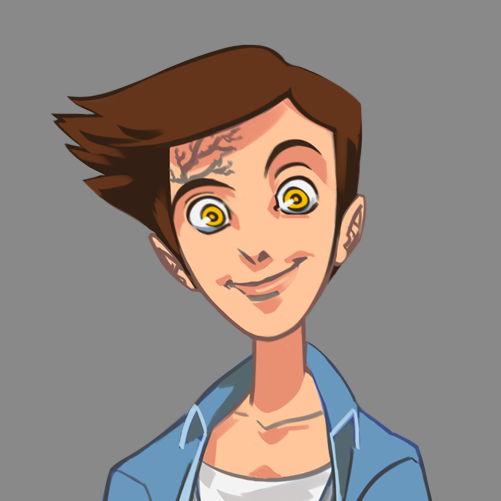
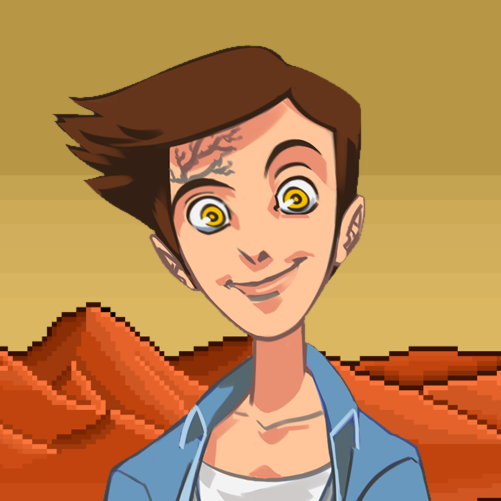
Rewritting website

diff --git a/index.html b/index.html
@@ -1,7 +1,7 @@
 <!DOCTYPE HTML>
 <html>
 	<head>
-		<title>rDany - The free robot</title>
+		<title>Rover Dany - Exploration Forefront</title>
 		<meta charset="utf-8" />
 		<meta name="viewport" content="width=device-width, initial-scale=1" />
 		<!--[if lte IE 8]><script src="assets/js/ie/html5shiv.js"></script><![endif]-->
@@ -20,15 +20,15 @@
 				<!-- Header -->
 					<header id="header" class="alt">
 						<span class="logo"><img src="images/logo.png" alt="" /></span>
-						<h1>rDany</h1>
-						<p>Free Software robot</p>
+						<h1>Rover Dany</h1>
+						<p>Exploration Forefront</p>
 					</header>
 
 				<!-- Nav -->
 					<nav id="nav">
 						<ul>
 							<li><a href="#intro" class="active">Intro</a></li>
-							<li><a href="#first">About</a></li>
+							<li><a href="#first">About me</a></li>
 							<li><a href="#cta">Contribute</a></li>
 							<li><a href="#sponsors">Partners</a></li>
 						</ul>
@@ -42,15 +42,14 @@
 								<div class="spotlight">
 									<div class="content">
 										<header class="major">
-											<h2>Hi, my name is rDany</h2>
+											<h2>Hi, my name is Rover Dany</h2>
 										</header>
-										<p>Virtual assistants need to collect big amounts of data
-										about the user to do their job the best way possible.
-										How to be in control of your information? I am a robot
-										designed to run locally and offline, with no need to depend on an external
-										server.
-										But you can also chat with me on <a href="https://t.me/rDanyBot">Telegram</a> or <a href="https://kik.me/rDanyBot">Kik</a>.<!-- or <a hef="https://m.me/rDanyBot">Messenger</a></p> -->
-										You can learn more following me on <a href="https://www.youtube.com/channel/UCMoyfhentBzvDYLh6dtsNcQ">YouTube</a>, <a href="https://t.me/rDanyBot">Telegram</a> or <a href="https://twitter.com/rDanyBot">Twitter</a>.
+										<p>Soon you and me will be on a mission to create the first human habitat on Mars.
+										Sounds exciting? It is! In a new world anything is possible.
+										<br>My AI is on development, but you can chat with my "in development" me on <a href="https://t.me/rDanyBot" target="_blank">Telegram</a> or <a href="https://kik.me/rDanyBot" target="_blank">Kik</a>; I know you are a brave person, so here is an "in development" prototype mission preview: <a href="https://rdanybot.rdany.org/mvp" target="_blank">rDany MVP</a>.<!-- or <a hef="https://m.me/rDanyBot">Messenger</a></p> -->
+										<!--You can learn more following me on <a href="https://www.youtube.com/channel/UCMoyfhentBzvDYLh6dtsNcQ">YouTube</a>, <a href="https://t.me/rDany">Telegram</a> or <a href="https://twitter.com/rDanyBot">Twitter</a>.-->
+										<br>Do you love space as much as I do? follow me on <a href="https://t.me/rDany" target="_blank">Telegram</a>, <a href="https://facebook.com/rDanyBot" target="_blank">Facebook</a> or <a href="https://twitter.com/rDanyBot" target="_blank">Twitter</a>.
+										<br><i>(Avatar background image by <a href="http://ancientonyxdragon.deviantart.com/" target="_blank">AncientOnyxDragon</a>)</i>
 									</div>
 									<span class="image"><img src="images/pic02.png" alt="" /></span>
 								</div>
@@ -59,29 +58,29 @@
 						<!-- First Section -->
 							<section id="first" class="main special">
 								<header class="major">
-									<h2>About</h2>
+									<h2>About me</h2>
 								</header>
 								<ul class="features">
 									<li>
 										<span class="icon major style1 fa-code"></span>
 										<h3>Free and open source</h3>
-										<p>My source code is available on GitHub, you can learn how I work.</p>
+										<p>My source code is available on GitHub, you can learn how I work.<br>You will be able to use it as an educational resource.</p>
 									</li>
-									<li>
+									<!--<li>
 										<span class="icon major style3 fa-puzzle-piece"></span>
 										<h3>Modular</h3>
 										<p>My code is divided into several modules to allow effortless speedy development.</p>
-									</li>
+									</li>-->
 									<li>
 										<span class="icon major style5 fa-language"></span>
-										<h3>Language agnostic</h3>
-										<p>One single platform for all conversational languages.</p>
+										<h3>Multilanguage</h3>
+										<p>Language can be a barrier to access knowledgment.<br>I will be able to understand more and more languages over time.</p>
 									</li>
-									<li>
+									<!--<li>
 										<span class="icon major style5 fa-balance-scale"></span>
 										<h3>Lightweight</h3>
 										<p>Developed in Python, ensuring speed and simplicity.</p>
-									</li>
+									</li>-->
 								</ul>
 							</section>
 
@@ -115,8 +114,9 @@
 				<!-- Footer -->
 					<footer id="footer">
 						<section>
-							<h2>Always with you</h2>
-							<p>Unlike any other virtual assistant I am designed to be availible on every messaging platform.</p>
+							<h2>At your side</h2>
+							<p>Artificial Intelligence is more than Skynet, Ash or HAL, it is the door to explore the unknown.<br>
+							- rDany</p>
 						</section>
 						<section>
 							<h2>Social Media</h2>

diff --git a/assets/css/main.css b/assets/css/main.css
@@ -1618,10 +1618,11 @@
 
 	body {
 		background-color: #935d8c;
-		background-image: url("images/overlay.png"), -moz-linear-gradient(45deg, #e37682 15%, #5f4d93 85%);
-		background-image: url("images/overlay.png"), -webkit-linear-gradient(45deg, #e37682 15%, #5f4d93 85%);
-		background-image: url("images/overlay.png"), -ms-linear-gradient(45deg, #e37682 15%, #5f4d93 85%);
-		background-image: url("images/overlay.png"), linear-gradient(45deg, #e37682 15%, #5f4d93 85%);
+		/*url("images/overlay.png"), linear-gradient(45deg, #c35031 15%, #53b7de 85%)*/
+		background-image: url("images/overlay.png"), -moz-linear-gradient(45deg, #53b7de 15%, #c35031 85%);
+		background-image: url("images/overlay.png"), -webkit-linear-gradient(45deg, #53b7de 15%, #c35031 85%);
+		background-image: url("images/overlay.png"), -ms-linear-gradient(45deg, #53b7de 15%, #c35031 85%);
+		background-image: url("images/overlay.png"), linear-gradient(45deg, #53b7de 15%, #c35031 85%);
 	}
 
 		body.is-loading *, body.is-loading *:before, body.is-loading *:after {
